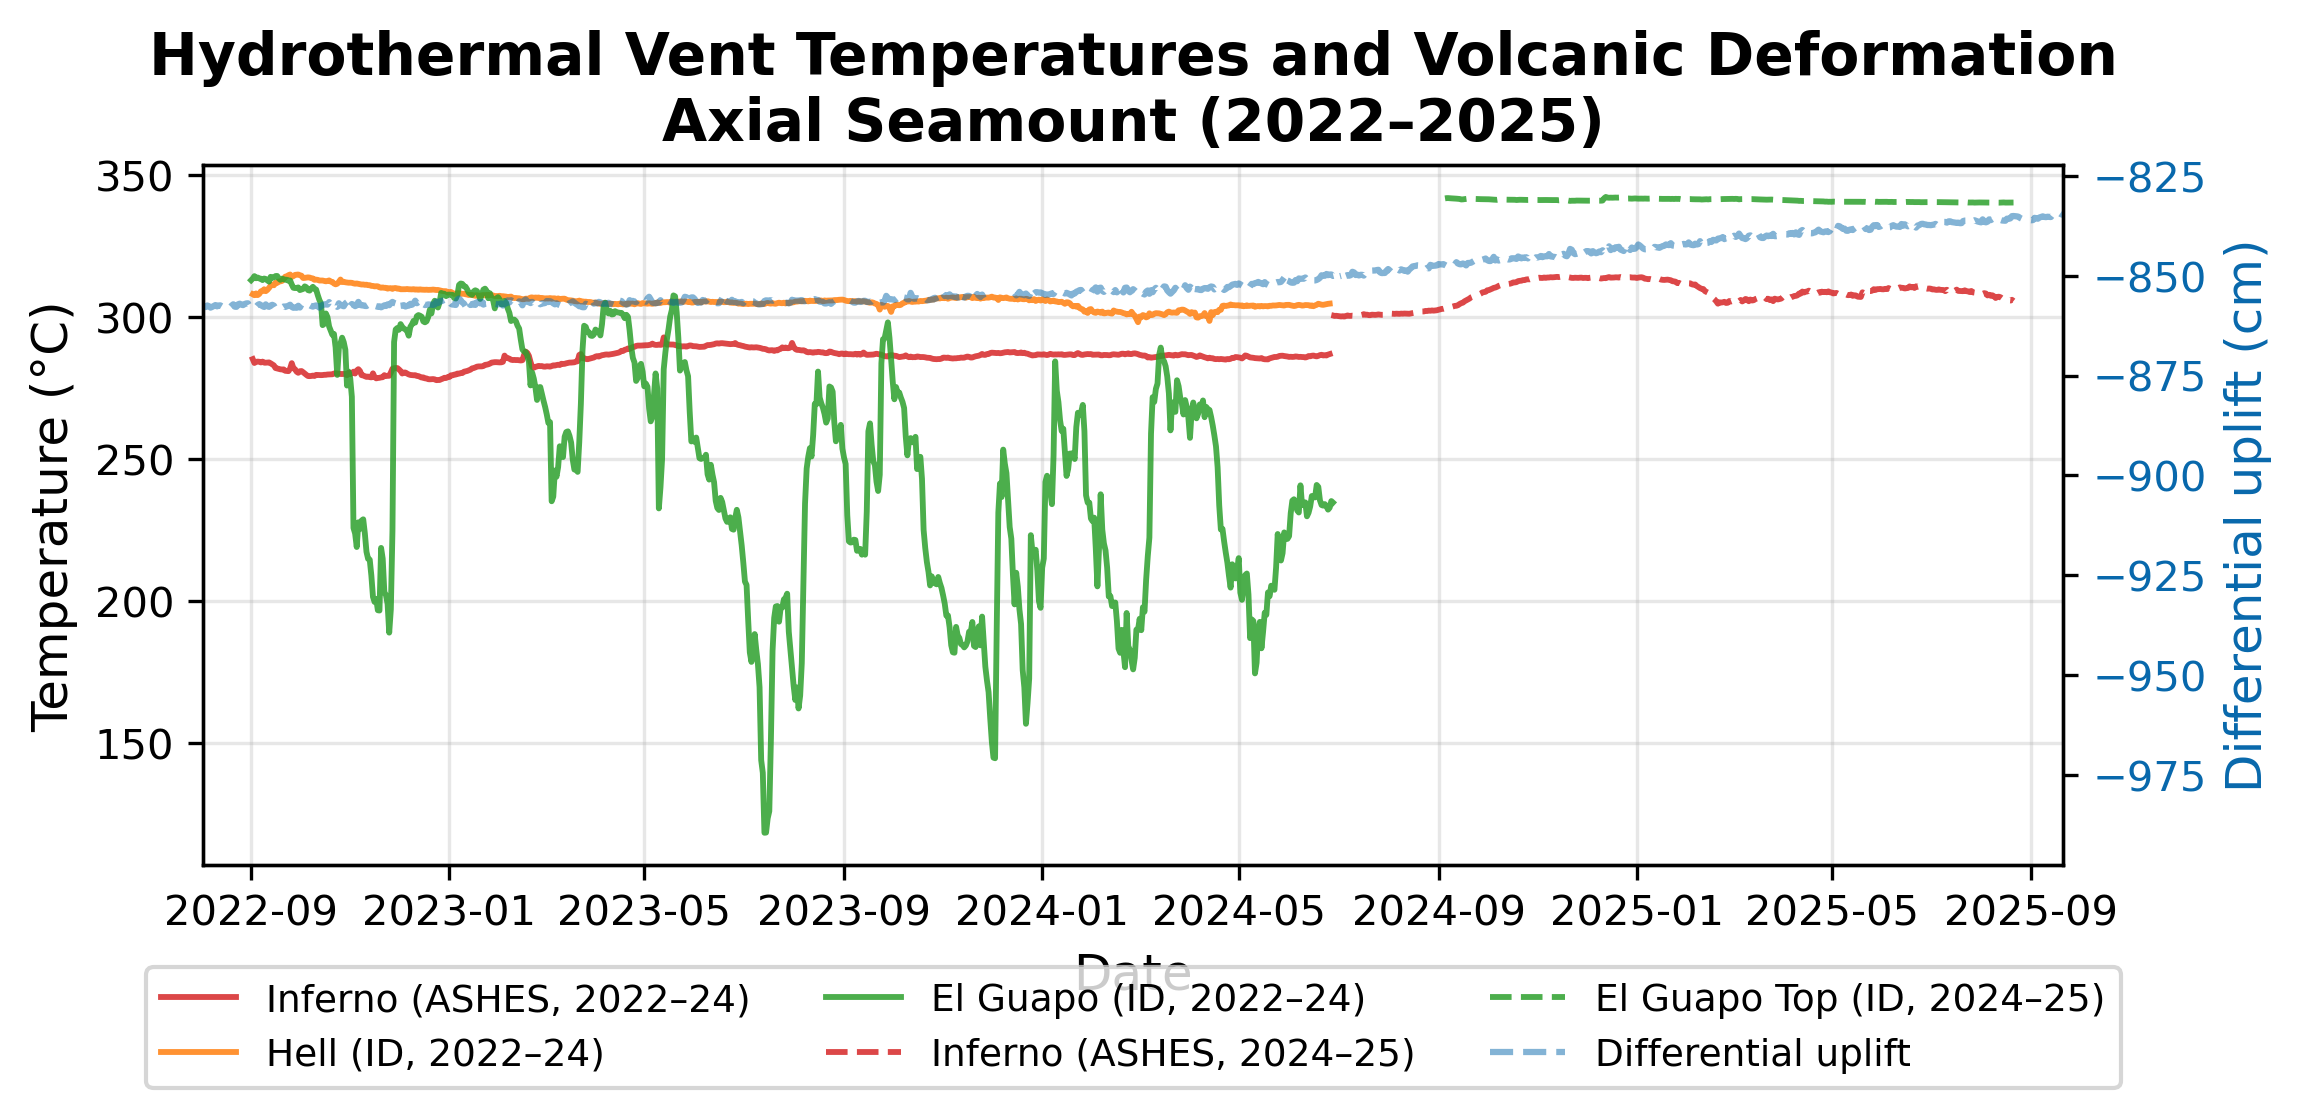
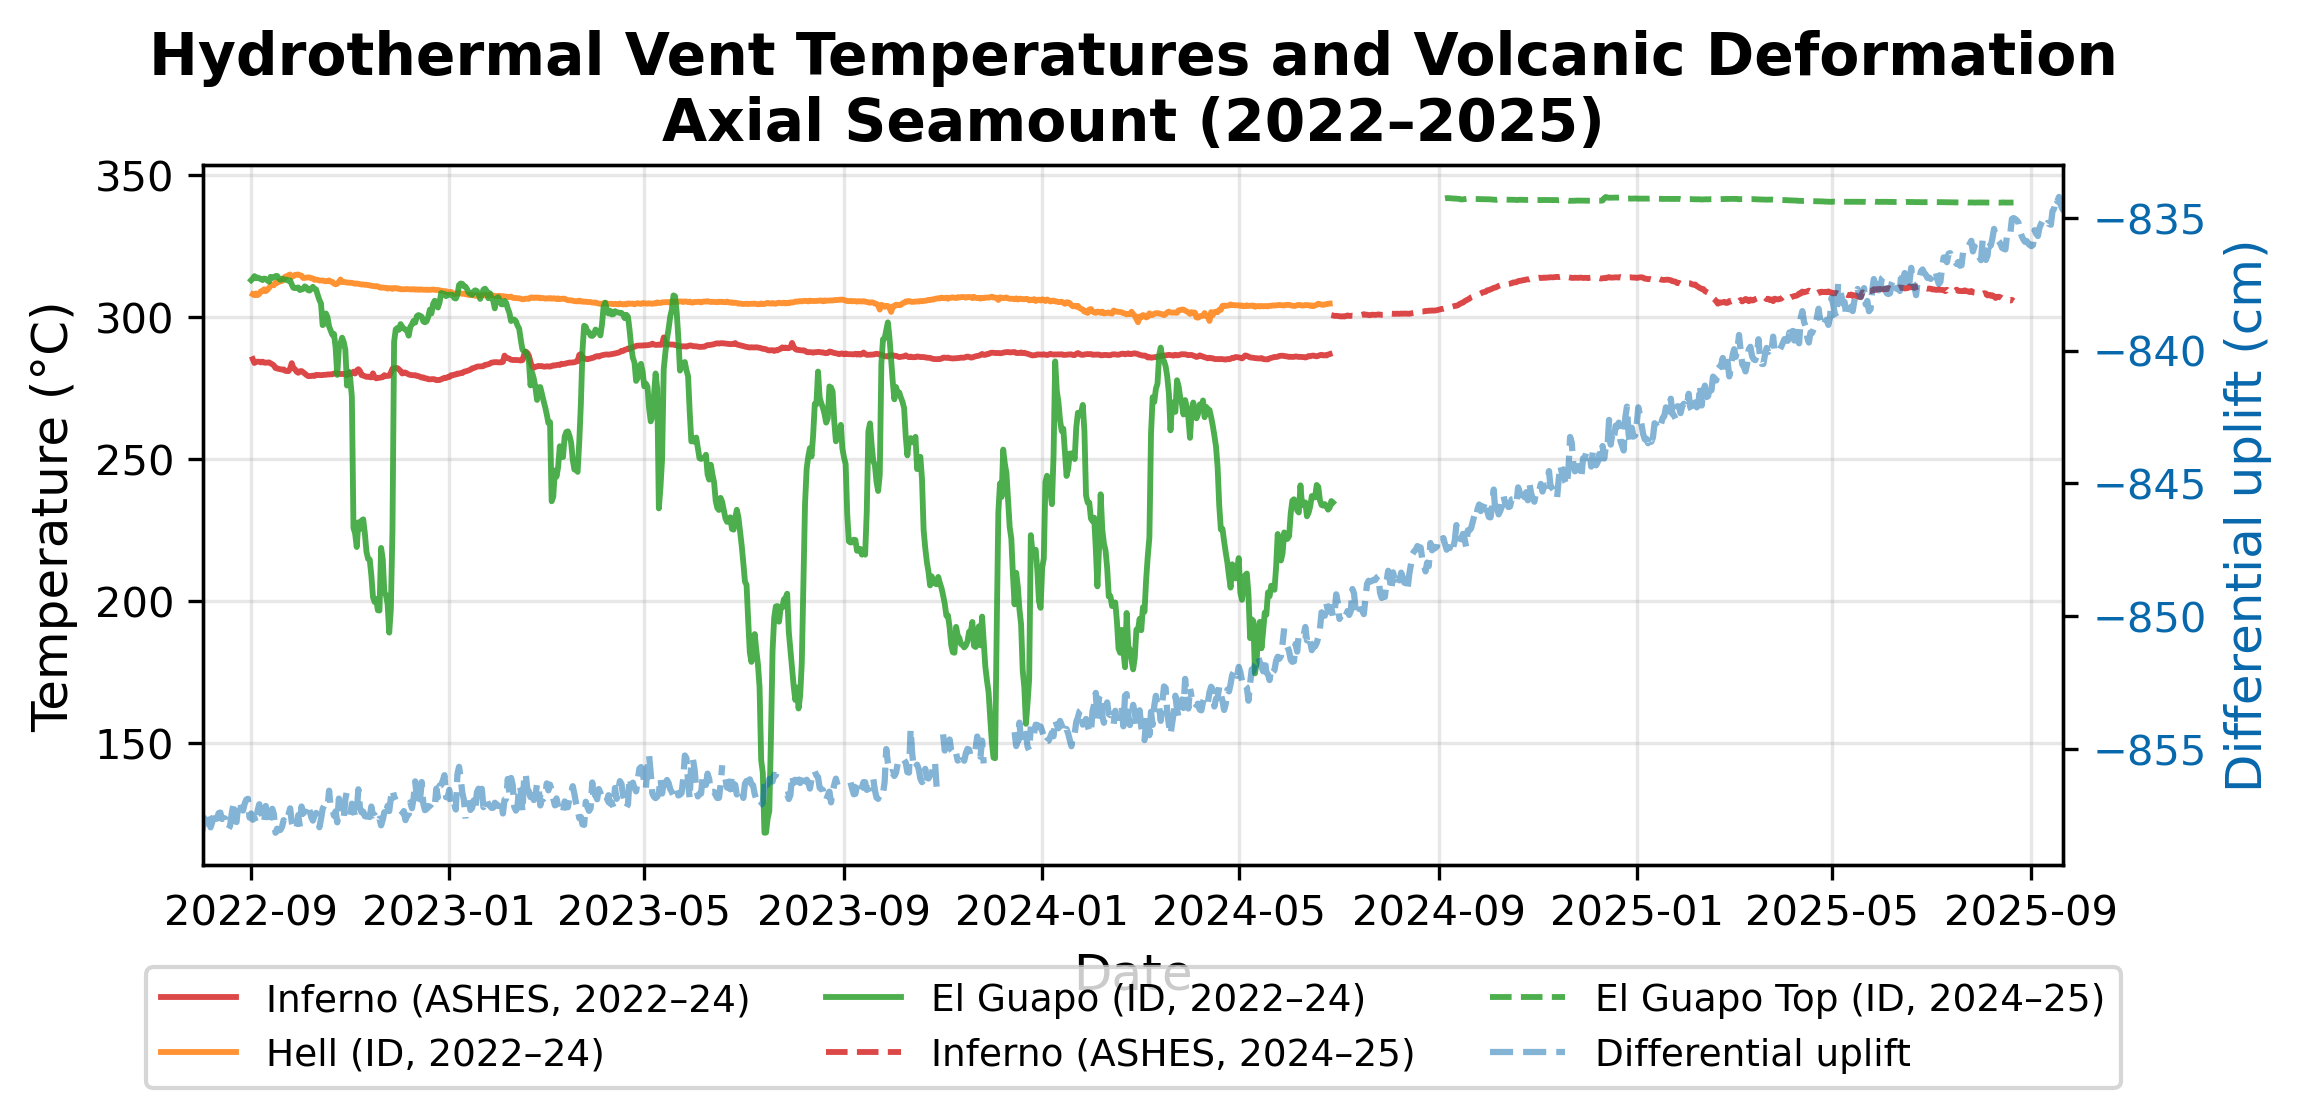
Constrain BPR y-axis to visible range on poster figure

diff --git a/survey.py b/survey.py
@@ -400,11 +400,18 @@ def fig_poster_bpr(records, summary, bpr, fig_path):
     # BPR on right axis
     if bpr is not None:
         ax2 = ax1.twinx()
-        ax2.plot(bpr.index, bpr["differential_m"] * 100,
+        bpr_cm = bpr["differential_m"] * 100
+        ax2.plot(bpr.index, bpr_cm,
                  color="#0868AC", alpha=0.5, linewidth=1.5, linestyle="--",
                  label="Differential uplift")
         ax2.set_ylabel("Differential uplift (cm)", color="#0868AC", fontsize=12)
         ax2.tick_params(axis="y", labelcolor="#0868AC", labelsize=10)
+
+        # Constrain y-axis to visible BPR range (within the x-axis window)
+        bpr_visible = bpr_cm.loc[xmin:xmax].dropna()
+        if len(bpr_visible) > 0:
+            ypad = (bpr_visible.max() - bpr_visible.min()) * 0.05
+            ax2.set_ylim(bpr_visible.min() - ypad, bpr_visible.max() + ypad)
 
         lines1, labels1 = ax1.get_legend_handles_labels()
         lines2, labels2 = ax2.get_legend_handles_labels()
